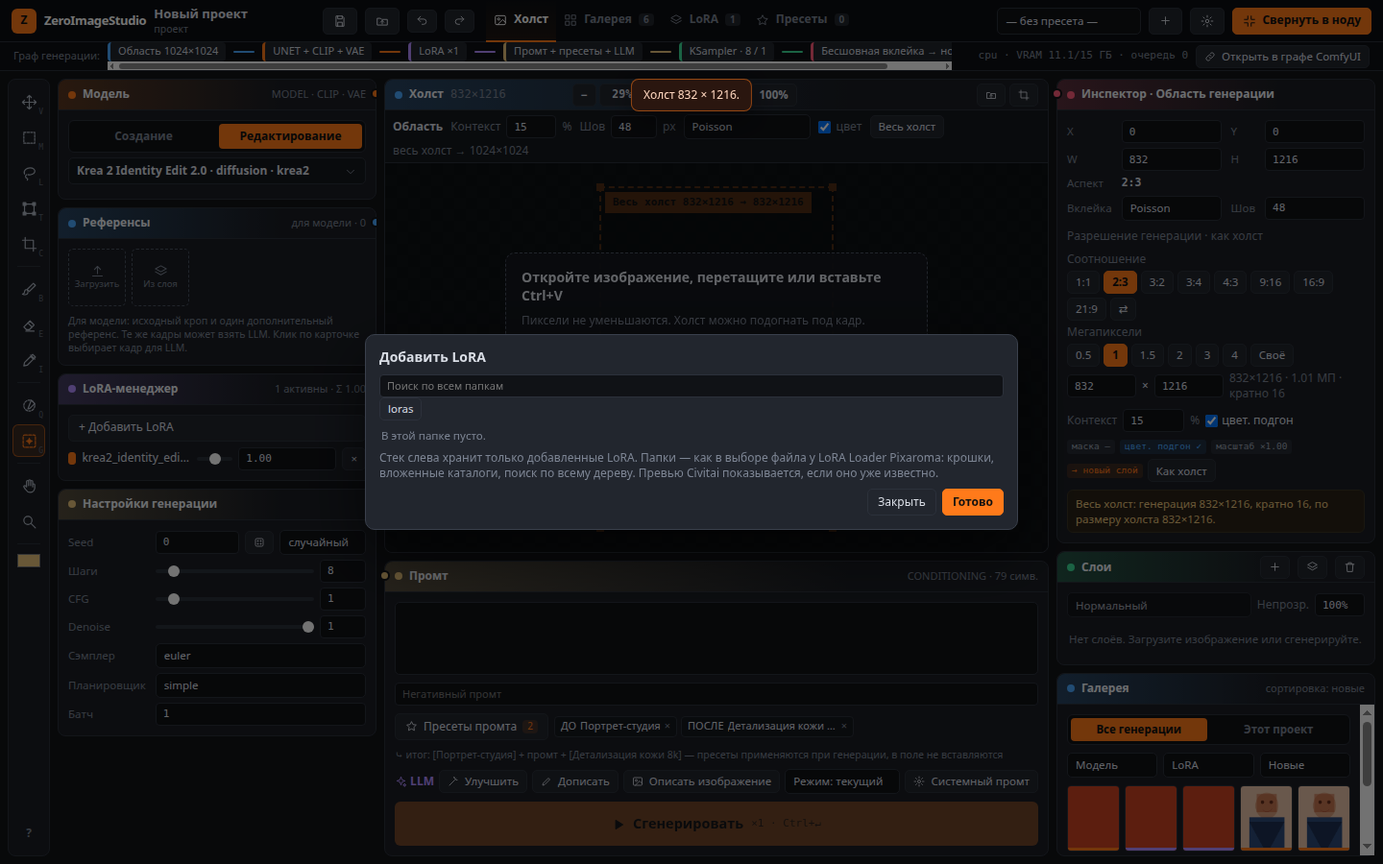
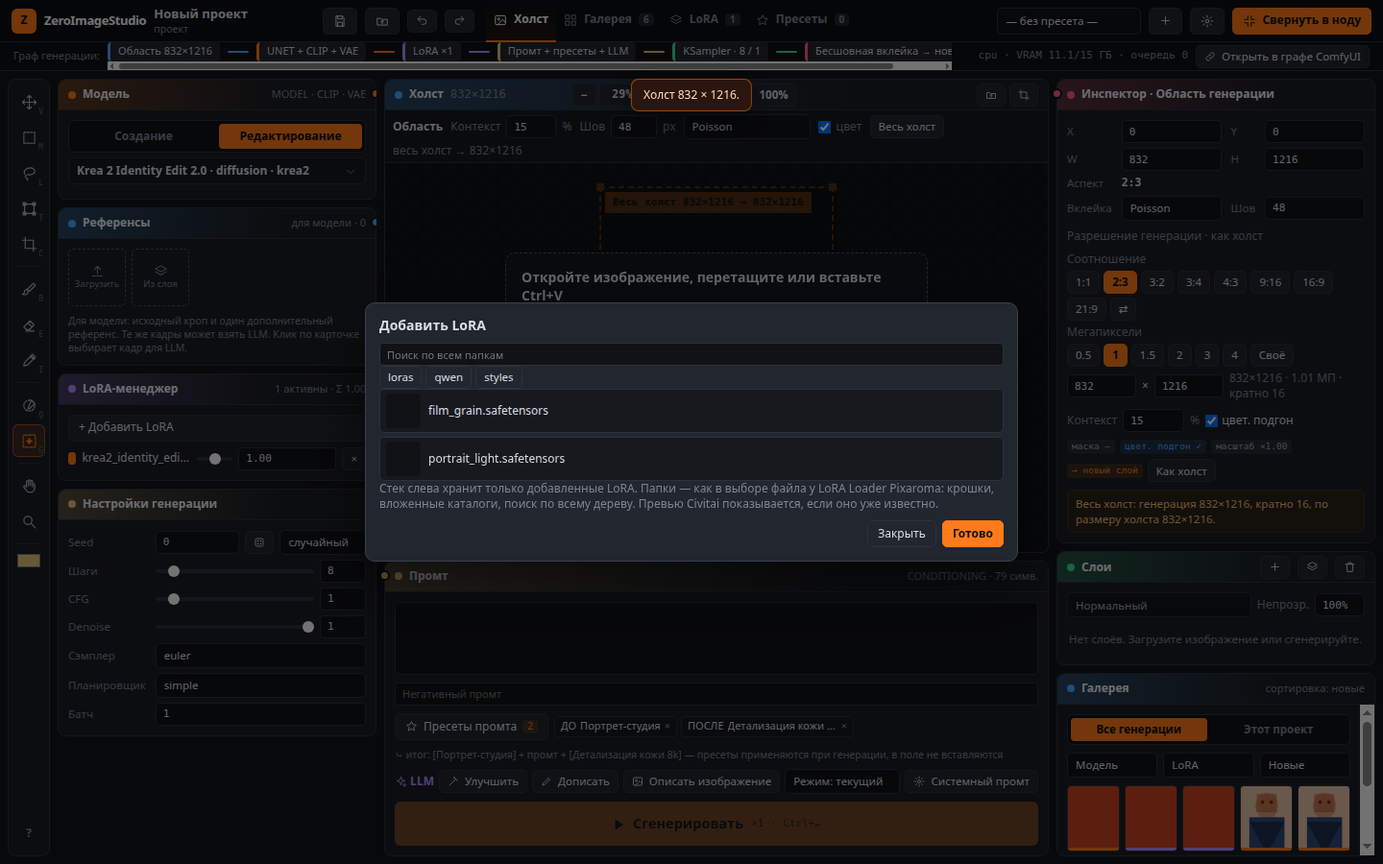
Size Qwen text-to-image from an empty latent at the canvas frame.
Creation without a source image uses CLIPTextEncode and EmptySD3LatentImage at the snapped width and height. The pipeline strip, tool bar, and inspector all read that same size, and only the matching megapixel chip is selected.

diff --git a/web/zeroimagestudio_app.js b/web/zeroimagestudio_app.js
@@ -355,8 +355,9 @@
       this.ga.style.height = Math.max(8, g.h * this.zoom) + "px";
       this.ga.style.pointerEvents = state.tool === "genarea" ? "auto" : "none";
       const lab = this.ga.querySelector(".lab");
+      const frame = generationSize();
       const kind = state.area.userPlaced ? "Область" : "Весь холст";
-      lab.textContent = `${kind} ${Math.round(g.w)}×${Math.round(g.h)} → ${state.area.outW}×${state.area.outH}`;
+      lab.textContent = `${kind} ${Math.round(g.w)}×${Math.round(g.h)} → ${frame.w}×${frame.h}`;
       lab.classList.toggle("inside", (this.panY + g.y * this.zoom) < 26);
       const run = $("ga-run");
       if (run) {
@@ -663,6 +664,8 @@
       if (d.kind === "transform" && d.snapshot) { this.bakeActive(); this.pushUndo(d.snapshot); }
       renderInspector();
       renderLayers();
+      renderPipe();
+      paintStatus();
     }
 
     dragGen(d, p) {
@@ -948,8 +951,9 @@
       <label>Позиция референса <select class="dd" data-krea="ref_position" style="width:100%">${["aligned (trained)", "beside (right of target)", "bag of features"].map((v) => `<option ${krea.ref_position === v ? "selected" : ""}>${v}</option>`).join("")}</select></label>
       <label>Grounding, px <input class="f" data-krea="grounding_px" value="${krea.grounding_px}"></label>
       <label>Ноды <select class="dd" data-krea="impl" style="width:100%"><option value="internal" ${krea.impl !== "external" ? "selected" : ""}>встроенные</option><option value="external" ${krea.impl === "external" ? "selected" : ""}>пакет comfyui-krea2edit</option></select></label>` : "";
-    const qwenRow = (state.pipeline === "edit" && (c.method === "qwen_image_21" || c.method === "qwen")) || c.encoder === "qwen_image_21"
-      ? `<label>Qwen resolution <input class="f" data-file="qwen_resolution" value="${c.qwen_resolution || state.area.outW}"></label>` : "";
+    const qwenUsesEncoder = (state.pipeline === "edit" && (c.method === "qwen_image_21" || c.method === "qwen")) || (c.encoder === "qwen_image_21" && usesSource());
+    const qwenRow = qwenUsesEncoder
+      ? `<label>Qwen resolution <input class="f" data-file="qwen_resolution" value="${c.qwen_resolution || 0}"></label>` : "";
     $("graph-options").innerHTML = `
       ${methodRow}
       <label>Латент <select class="dd" data-file="latent_mode" style="width:100%"><option value="standard" ${c.latent_mode !== "sd3" ? "selected" : ""}>EmptyLatentImage (4 кан.)</option><option value="sd3" ${c.latent_mode === "sd3" ? "selected" : ""}>EmptySD3LatentImage (16 кан.)</option></select></label>
@@ -1261,6 +1265,27 @@
     const mp = (w * h) / 1e6;
     return MPS.reduce((best, m) => Math.abs(m - mp) < Math.abs(best - mp) ? m : best, MPS[0]);
   }
+  function activeMp(w, h) {
+    const mp = (w * h) / 1e6;
+    let best = null;
+    let err = 0.08;
+    for (const m of MPS) {
+      const e = Math.abs(m - mp);
+      if (e < err) { err = e; best = m; }
+    }
+    return best;
+  }
+  function generationSize() {
+    if (editor && state.area.outputLinked !== false && !state.area.userPlaced) {
+      state.area.outW = snapSize(editor.doc.w);
+      state.area.outH = snapSize(editor.doc.h);
+    } else {
+      state.area.outW = snapSize(state.area.outW || 64);
+      state.area.outH = snapSize(state.area.outH || 64);
+    }
+    state.area.mp = nearestMp(state.area.outW, state.area.outH);
+    return { w: state.area.outW, h: state.area.outH };
+  }
   function sizeForAspectMp(aspect, mp) {
     const hit = ASPECTS.find((a) => a[0] === aspect) || ASPECTS[0];
     const ratio = hit[1] / hit[2];
@@ -1286,12 +1311,13 @@
   }
   function resolutionPickerHtml(w, h) {
     const aspect = matchAspect(w, h);
+    const mpOn = activeMp(w, h);
     const exact = ((w * h) / 1e6).toFixed(2);
     return `<div class="res-pick">
       <div class="mu">Соотношение</div>
-      <div class="res-aspects">${ASPECTS.map(([n]) => `<button type="button" class="b s ${aspect === n ? "on" : ""}" data-aspect="${n}">${n}</button>`).join("")}<button type="button" class="b s" data-swap="1" title="Портрет или альбом">⇄</button></div>
+      <div class="res-aspects">${ASPECTS.map(([n]) => `<button type="button" class="b s ${aspect === n ? "on" : ""}" data-aspect="${n}" aria-pressed="${aspect === n ? "true" : "false"}">${n}</button>`).join("")}<button type="button" class="b s" data-swap="1" title="Портрет или альбом">⇄</button></div>
       <div class="mu">Мегапиксели</div>
-      <div class="res-mps">${MPS.map((m) => `<button type="button" class="b s ${Math.abs(m - (w * h) / 1e6) < 0.08 ? "on" : ""}" data-mp="${m}">${m}</button>`).join("")}<button type="button" class="b s" data-custom="1">Своё</button></div>
+      <div class="res-mps">${MPS.map((m) => `<button type="button" class="b s ${m === mpOn ? "on" : ""}" data-mp="${m}" aria-pressed="${m === mpOn ? "true" : "false"}">${m}</button>`).join("")}<button type="button" class="b s" data-custom="1" aria-pressed="false">Своё</button></div>
       <div class="row res-wh"><input class="f" data-rw="1" value="${w}" inputmode="numeric" aria-label="Ширина"><span>×</span><input class="f" data-rh="1" value="${h}" inputmode="numeric" aria-label="Высота"><span class="mu res-live">${w}×${h} · ${exact} МП · кратно 16</span></div>
     </div>`;
   }
@@ -1334,12 +1360,11 @@
   }
 
   function renderInspector() {
-    if (!state.area.userPlaced && state.area.outputLinked !== false) syncOutputFromCanvas();
+    const frame = generationSize();
     const g = editor.gen;
     const a = state.area;
-    const scale = (g.w > 0) ? (a.outW / g.w) : 1;
+    const scale = (g.w > 0) ? (frame.w / g.w) : 1;
     const linked = a.outputLinked !== false && coversWholeCanvas();
-    const qwenSquare = cfg().encoder === "qwen_image_21" && state.pipeline === "create" && !usesSource() && Math.abs(a.outW - a.outH) > 32;
     $("inspector").innerHTML = `
       <div class="kv" style="grid-template-columns:auto minmax(0,1fr) auto minmax(0,1fr)">
         <span>X</span><input id="gx" class="f" value="${g.x}"><span>Y</span><input id="gy" class="f" value="${g.y}">
@@ -1349,7 +1374,7 @@
         <span>Шов</span><input id="gfeather" class="f" value="${a.feather}">
       </div>
       <div class="mu">Разрешение генерации${linked ? " · как холст" : ""}</div>
-      ${resolutionPickerHtml(a.outW, a.outH)}
+      ${resolutionPickerHtml(frame.w, frame.h)}
       <div class="row" style="gap:6px"><span class="mu">Контекст</span><input id="gcontext" class="f" style="width:64px" value="${Math.round(a.context*100)}"><span class="mu">%</span>
         <label class="row" style="gap:4px"><input id="gcolor" type="checkbox" ${a.colorMatch?"checked":""}> цвет. подгон</label></div>
       <div class="row" style="gap:5px;flex-wrap:wrap">
@@ -1360,8 +1385,8 @@
         <button type="button" class="b s" id="btn-gen-full">Как холст</button>
       </div>
       <div class="banner">${linked
-        ? `Весь холст: генерация ${a.outW}×${a.outH}, кратно 16, по размеру холста ${editor.doc.w}×${editor.doc.h}.`
-        : `Область ${Math.round(g.w)}×${Math.round(g.h)} (${ratioText(g.w, g.h)}), выход модели ${a.outW}×${a.outH}.`}${qwenSquare ? " Qwen Image 2.1 без картинки считает квадрат и потом вписывается в холст." : ""}</div>`;
+        ? `Весь холст: генерация ${frame.w}×${frame.h}, кратно 16, по размеру холста ${editor.doc.w}×${editor.doc.h}.`
+        : `Область ${Math.round(g.w)}×${Math.round(g.h)} (${ratioText(g.w, g.h)}), выход модели ${frame.w}×${frame.h}.`}</div>`;
     const num = (id, fn) => $(id).onchange = () => { state.area.userPlaced = true; fn(parseFloat($(id).value)); editor.requestDraw(); renderInspector(); renderLayers(); };
     num("gx", (v) => { editor.gen.x = clamp(v || 0, 0, editor.doc.w - 8); });
     num("gy", (v) => { editor.gen.y = clamp(v || 0, 0, editor.doc.h - 8); });
@@ -1440,7 +1465,8 @@
       const area = editor.maskArea();
       el.textContent = area > 8 ? `маска ${area} px²` : "маска не нарисована";
     } else if (state.tool === "genarea") {
-      el.textContent = state.area.userPlaced ? "своя область" : `весь холст → ${state.area.outW}×${state.area.outH}`;
+      const frame = generationSize();
+      el.textContent = state.area.userPlaced ? `область → ${frame.w}×${frame.h}` : `весь холст → ${frame.w}×${frame.h}`;
     }
   }
 
@@ -1532,6 +1558,9 @@
     renderLayers();
     renderEmpty();
     renderInspector();
+    renderPipe();
+    paintStatus();
+    editor.requestDraw();
     updateGenerateButton();
     toast(`Холст ${w} × ${h}.`);
   }
@@ -1801,10 +1830,11 @@
 
   function renderPipe() {
     const c = cfg();
+    const frame = generationSize();
     const loras = activeLoras().filter((l) => l.enabled);
     const built = state.pipeline === "edit" ? "edit:" + (c.method || "inpaint") : "create";
     const steps = [
-      { text: `Область ${state.area.outW}×${state.area.outH}`, color: "#4aa8ff" },
+      { text: `Область ${frame.w}×${frame.h}`, color: "#4aa8ff" },
       { text: c.loader === "checkpoint" ? "Checkpoint" : "UNET + CLIP + VAE", color: "#ff7a1a" },
       { text: loras.length ? `LoRA ×${loras.length}` : "без LoRA", color: "#b18cff" },
       { text: "Промт + пресеты + LLM", color: "#e7c27a" },
@@ -1912,7 +1942,7 @@
       edit_method: c.method,
       inpaint_mode: c.inpaint_mode,
       inpaint_grow: c.inpaint_grow,
-      qwen_resolution: (usesSource() || state.pipeline === "edit") ? 0 : snapSize(Math.max(state.area.outW, state.area.outH), 32, 32),
+      qwen_resolution: 0,
       krea: c.krea,
       loras: c.loras,
       prompt: state.prompt,
@@ -1925,8 +1955,8 @@
       sampler: s.sampler,
       scheduler: s.scheduler,
       batch: s.batch,
-      width: state.area.outW,
-      height: state.area.outH,
+      width: generationSize().w,
+      height: generationSize().h,
       filename_prefix: "zeroimagestudio/gen",
     };
   }
@@ -2425,6 +2455,8 @@
     editor.requestDraw();
     renderLayers();
     renderInspector();
+    renderPipe();
+    paintStatus();
     updateGenerateButton();
     toast(fit ? `Холст ${w} × ${h}. Слой в полном размере, без уменьшения.` : "Слой добавлен в полном размере, холст не менялся.");
   }

diff --git a/web/zeroimagestudio.css b/web/zeroimagestudio.css
@@ -291,7 +291,23 @@ body { min-width: 0; }
 #layers-node .layers-note { font-size: 11px; line-height: 1.4; }
 .res-pick { display: flex; flex-direction: column; gap: 4px; min-width: 0; }
 .res-aspects, .res-mps { display: flex; flex-wrap: wrap; gap: 4px; min-width: 0; }
-.res-aspects .b.on, .res-mps .b.on { background: var(--ac); border-color: var(--ac); color: #111; font-weight: 700; }
+.res-aspects .b, .res-mps .b {
+  background: var(--p2); color: var(--tx); border: 1px solid var(--ln);
+  outline: none; box-shadow: none; -webkit-font-smoothing: antialiased;
+}
+.res-aspects .b:hover, .res-mps .b:hover,
+.res-aspects .b:focus, .res-mps .b:focus,
+.res-aspects .b:focus-visible, .res-mps .b:focus-visible,
+.res-aspects .b:active, .res-mps .b:active {
+  outline: none; box-shadow: none; background: var(--p2); color: var(--tx); border-color: var(--ln);
+}
+.res-aspects .b.on, .res-mps .b.on,
+.res-aspects .b.on:hover, .res-mps .b.on:hover,
+.res-aspects .b.on:focus, .res-mps .b.on:focus,
+.res-aspects .b.on:focus-visible, .res-mps .b.on:focus-visible,
+.res-aspects .b.on:active, .res-mps .b.on:active {
+  background: var(--ac); border-color: var(--ac); color: #111; font-weight: 700;
+}
 .res-wh { flex-wrap: wrap; }
 .res-wh input.f { width: 72px; flex: 0 1 72px; }
 .res-live { flex: 1 1 120px; min-width: 0; }

diff --git a/zeroimagestudio_workflows.py b/zeroimagestudio_workflows.py
@@ -3,7 +3,8 @@
 Создание (create): checkpoint or diffusion model + text encoder + VAE + LoRAs + sampler.
 Редактирование (edit): the same loaders, then one of
   - inpaint / img2img via core nodes (any model),
-  - Qwen Image 2.1 via core TextEncodeQwenImage21,
+  - Qwen Image 2.1: text-to-image via CLIPTextEncode + EmptySD3LatentImage,
+    edits via core TextEncodeQwenImage21,
   - Krea 2 Edit via the embedded ZeroImageStudioKrea2Edit* nodes (or the optional external pack).
 
 No per-model Python. A hint or a preset only fills this spec.
@@ -297,20 +298,36 @@ def build_create(spec: dict, warnings: list[str]) -> dict:
     return g.nodes
 
 
+def _build_qwen_t2i(g, spec, model, clip, vae, prompt, negative) -> dict:
+    """Text-to-image. Size is the empty latent, not TextEncodeQwenImage21.resolution.
+
+    EmptySD3LatentImage is 16 channels at 1/8. ComfyUI's sampler expands an empty latent
+    to the loaded model (Qwen Image 2.1 is 64 channels at 1/16) using downscale_ratio_spacial,
+    so the pixel size of this node is the picture size.
+    """
+    w, h, batch = _size(spec, 16)
+    pos = _encode_clip(g, clip, prompt, "Positive")
+    neg = _encode_clip(g, clip, negative, "Negative")
+    latent = g.add(
+        "EmptySD3LatentImage",
+        {"width": w, "height": h, "batch_size": batch},
+        "EmptySD3LatentImage",
+    )
+    _save(
+        g,
+        g.ref(_sampler(g, spec, model, g.ref(pos, 0), g.ref(neg, 0), g.ref(latent, 0), 1.0), 0),
+        vae,
+        spec.get("filename_prefix") or "zeroimagestudio/gen",
+    )
+    return g.nodes
+
+
 def _build_qwen(g, spec, warnings, model, clip, vae, prompt, negative, include_image: bool, include_references: bool = True) -> dict:
-    width = int(spec.get("width") or 1024)
-    height = int(spec.get("height") or 1024)
+    if not include_image:
+        return _build_qwen_t2i(g, spec, model, clip, vae, prompt, negative)
     res = int(spec.get("qwen_resolution") or 0)
-    # 0 keeps a reference at its own size (multiples of 32). Text-to-image has no reference,
-    # and the node then falls back to a square; use the longer side of the requested frame.
-    if res <= 0 and not include_image:
-        res = snap(max(width, height), 32, minimum=32)
-        if abs(width - height) > 32:
-            warnings.append(
-                "Qwen Image 2.1 без изображения строит квадратный латент. "
-                f"Запрошено {width}×{height}; сторона квадрата {res}. Кадр будет вписан в холст."
-            )
-    elif res <= 0:
+    # 0 keeps a reference at its own size (multiples of 32).
+    if res <= 0:
         res = 0
     else:
         res = snap(res, 32, minimum=32)

diff --git a/tests/test_workflows.py b/tests/test_workflows.py
@@ -198,6 +198,35 @@ class WorkflowTests(unittest.TestCase):
         with self.assertRaises(WorkflowError):
             build_workflow(spec)
 
+    def test_qwen_create_uses_requested_frame(self):
+        prompt, warnings, built = build_workflow(_diff_spec(
+            encoder="qwen_image_21",
+            clip_type="qwen_image",
+            width=832,
+            height=1216,
+        ))
+        self.assertEqual(built, "create")
+        self.assertNotIn("TextEncodeQwenImage21", classes(prompt))
+        self.assertGreaterEqual(classes(prompt).count("CLIPTextEncode"), 2)
+        latent = next(n for n in prompt.values() if n["class_type"] == "EmptySD3LatentImage")
+        self.assertEqual(latent["inputs"]["width"], 832)
+        self.assertEqual(latent["inputs"]["height"], 1216)
+        sampler = next(n for n in prompt.values() if n["class_type"] == "KSampler")
+        latent_id = next(nid for nid, n in prompt.items() if n["class_type"] == "EmptySD3LatentImage")
+        self.assertEqual(sampler["inputs"]["latent_image"], [latent_id, 0])
+        self.assertFalse(any("квадрат" in w for w in warnings))
+
+    def test_qwen_create_snaps_frame_to_16(self):
+        prompt, _, _ = build_workflow(_diff_spec(
+            encoder="qwen_image_21",
+            clip_type="qwen_image",
+            width=830,
+            height=1210,
+        ))
+        latent = next(n for n in prompt.values() if n["class_type"] == "EmptySD3LatentImage")
+        self.assertEqual(latent["inputs"]["width"], 832)
+        self.assertEqual(latent["inputs"]["height"], 1216)
+
     def test_create_uses_requested_frame(self):
         prompt, _, built = build_workflow(_diff_spec(width=832, height=1216))
         self.assertEqual(built, "create")

diff --git a/README.md b/README.md
@@ -60,7 +60,7 @@ git clone https://github.com/zeroleloushe/ZeroImageStudio.git
 
 ## Как собирается генерация
 
-Создание и обычный inpaint используют только ноды ядра: `CheckpointLoaderSimple` либо `UNETLoader` + `CLIPLoader` + `VAELoader`, затем `LoraLoader`, `CLIPTextEncode` или `TextEncodeQwenImage21`, пустой латент или VAE-кодирование, `KSampler`, `VAEDecode`, `SaveImage`.
+Создание и обычный inpaint используют только ноды ядра: `CheckpointLoaderSimple` либо `UNETLoader` + `CLIPLoader` + `VAELoader`, затем `LoraLoader`, `CLIPTextEncode`, пустой латент или VAE-кодирование, `KSampler`, `VAEDecode`, `SaveImage`. Qwen Image 2.1 в Создании без картинки тоже идёт этим путём: `CLIPTextEncode` и `EmptySD3LatentImage` запрошенного размера.
 
 Способы редактирования:
 
@@ -68,7 +68,7 @@ git clone https://github.com/zeroleloushe/ZeroImageStudio.git
 | --- | --- |
 | Inpaint / img2img | Тот же, что и Создание. С маской — `VAEEncodeForInpaint` или `InpaintModelConditioning`. Без маски кроп идёт в img2img; если denoise оставлен равным 1, подставляется 0.75. |
 | Krea 2 Edit | `ZeroImageStudioKrea2EditModelPatch` и `ZeroImageStudioKrea2EditGroundedEncode`. |
-| Qwen Image 2.1 | Ядро: `TextEncodeQwenImage21`, слоты `images.image_1` … `images.image_16`. |
+| Qwen Image 2.1 | Редактирование: `TextEncodeQwenImage21`, слоты `images.image_1` … `images.image_16`. Создание без картинки: `CLIPTextEncode` и `EmptySD3LatentImage`. |
 | Прежний Qwen Image Edit | Ядро: `TextEncodeQwenImageEdit`. Это не 2.1. |
 
 Вклейка на NumPy: растушёвка, жёсткая маска или Пуассон (Якоби по пирамиде) и по желанию подгон цвета по рамке маски (Reinhard). Исходный слой остаётся снизу.
@@ -90,13 +90,15 @@ git clone https://github.com/zeroleloushe/ZeroImageStudio.git
 
 ## Qwen Image 2.1
 
-`TextEncodeQwenImage21` отдаёт латент по первому референсу. Сэмплировать другой размер нельзя: правка съезжает. При `resolution` 1024 и подключённом VAE у ComfyUI известен шум на референсах ([issue #16435](https://github.com/Comfy-Org/ComfyUI/issues/16435)). Редактор предупреждает и предлагает 992 или 1056. В промте картинки называются `<image1>`, `<image2>` и далее. Референсов передаётся до 16.
+В Создании без исходного изображения промт кодирует `CLIPTextEncode`, а кадр задаёт `EmptySD3LatentImage` ровно запрошенной ширины и высоты, кратно 16. Холст 832×1216 даёт латент 832×1216, в том числе неквадратный. Ядро ComfyUI при сэмплинге дополняет пустой 16-канальный латент до формата модели (у Qwen Image 2.1 это 64 канала и сжатие 16).
+
+В Редактировании и при img2img с картинкой размер берёт `TextEncodeQwenImage21` по референсу (`resolution` 0 сохраняет размер кропа, кратно 32). Сэмплировать другой размер нельзя: правка съезжает. При `resolution` 1024 и подключённом VAE у ComfyUI известен шум на референсах ([issue #16435](https://github.com/Comfy-Org/ComfyUI/issues/16435)). Редактор предупреждает и предлагает 992 или 1056. В промте картинки называются `<image1>`, `<image2>` и далее. Референсов передаётся до 16.
 
 ## Как править фото
 
 1. Загрузите снимок: **Открыть изображение**, перетаскивание на холст или Ctrl+V. Если у ноды в графе подключён вход `IMAGE` (обычно Load Image с выбранным файлом), то же окно открывается при развороте редактора.
 2. Диалог предлагает подогнать холст под полный размер кадра. Пиксели не уменьшаются.
-3. Область по умолчанию — весь холст. Разрешение генерации тогда совпадает с холстом и округляется до кратного 16 (холст 832×1216 даёт 832×1216, а не фиксированные 1024×1024). Свою область ставят инструментом G. В инспекторе соотношение сторон показывает реальные W×H, а разрешение выбирается пресетами аспекта и мегапикселей или своими числами. То же окно — у «Размер холста».
+3. Область по умолчанию — весь холст. Разрешение генерации тогда совпадает с холстом и округляется до кратного 16 (холст 832×1216 даёт 832×1216, а не фиксированные 1024×1024). То же число стоит в полосе пайплайна, в строке инструмента и в инспекторе. Свою область ставят инструментом G. Соотношение сторон показывает реальные W×H, а разрешение выбирается пресетами аспекта и мегапикселей или своими числами. То же окно — у «Размер холста». Выбранный пресет один: оранжевая кнопка.
 4. Напишите промт правки и нажмите **Сгенерировать**. Результат бесшовно ложится на новый слой «Правка N» поверх исходника. Исходный слой не меняется. Каждая следующая правка добавляет свой слой.
 
 ![Фото на холсте](docs/edit-photo.png)
